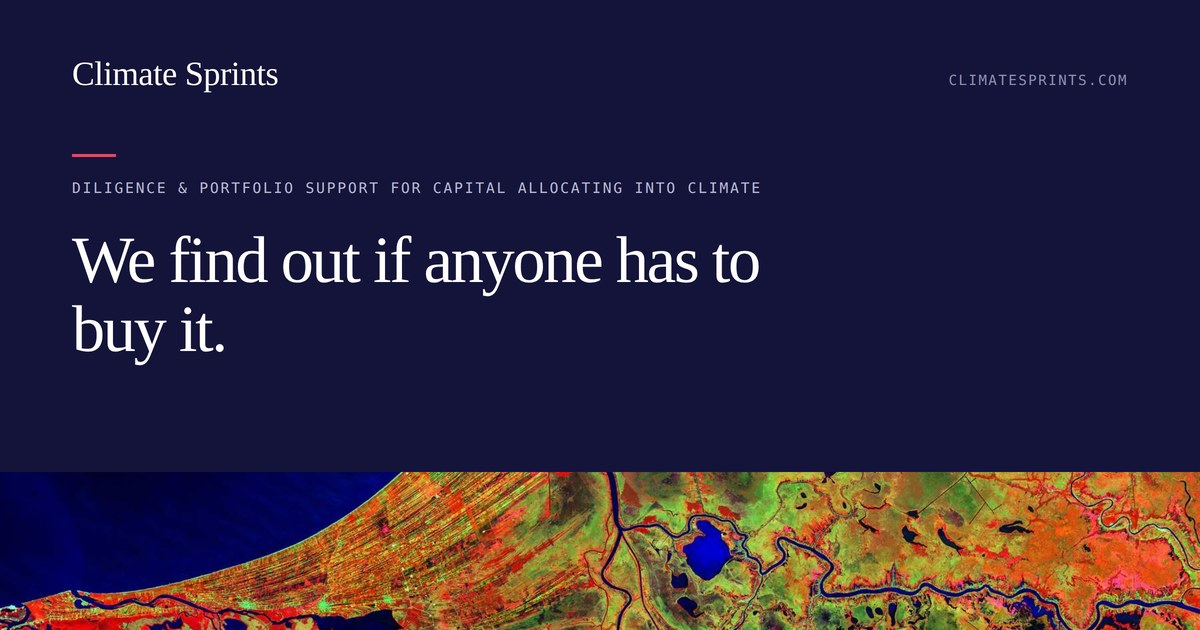
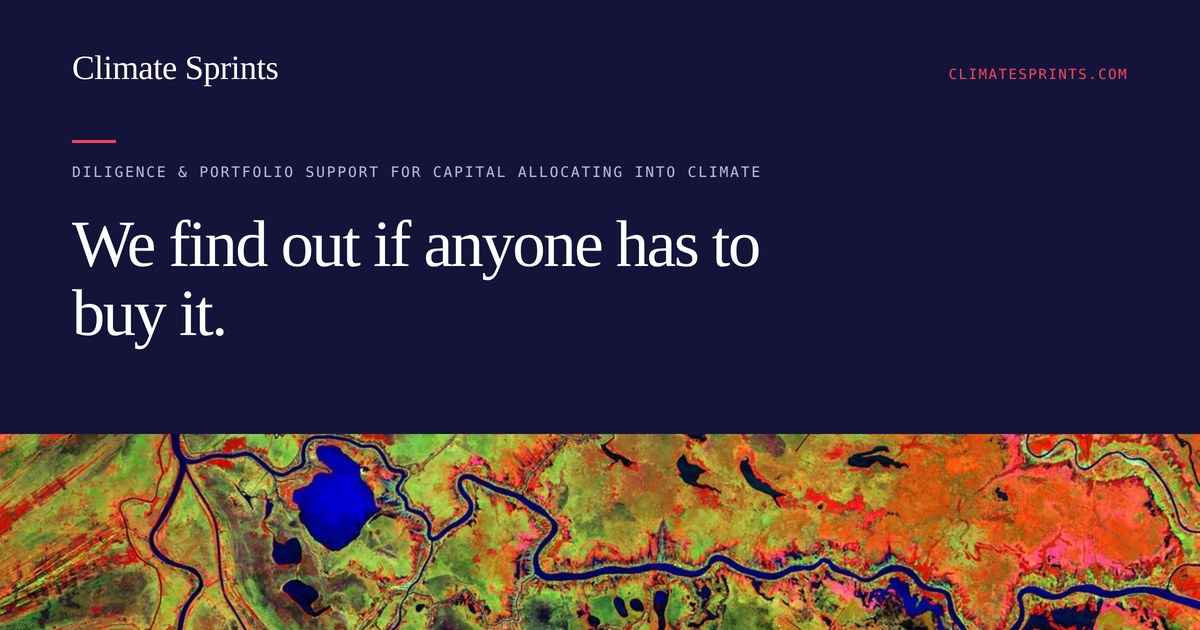
Whole Site v3.1  OG card - Footer - Eyebrow

diff --git a/assets/site.css b/assets/site.css
@@ -110,7 +110,7 @@ a:focus-visible,button:focus-visible,input:focus-visible,textarea:focus-visible{
 .eyebrow{
   font-family:"JetBrains Mono",monospace;font-size:12.5px;font-weight:500;
   letter-spacing:.08em;text-transform:uppercase;color:var(--label);
-  margin:0 0 2.4em;display:inline-block;border-bottom:2px solid var(--ir);padding-bottom:9px;
+  margin:0 0 45px;display:inline-block;border-bottom:2px solid var(--ir);padding-bottom:9px;
 }
 .hero h1{
   font-family:Newsreader,Georgia,serif;font-weight:200;
@@ -310,15 +310,18 @@ legend{padding:0;font-size:13.5px;color:var(--label);margin-bottom:14px;}
 
 /* SDG mark in the footer */
 .foot-top{display:grid;grid-template-columns:auto minmax(0,1fr) auto;
-  gap:clamp(20px,3vw,40px);align-items:center;}
-.foot-nav{justify-content:flex-end;}
-@media (max-width:980px){.foot-top{grid-template-columns:1fr;gap:26px;}
-  .foot-nav{justify-content:flex-start;}}
-.sdg{display:flex;align-items:center;gap:13px;justify-self:end;}
+  gap:clamp(20px,3vw,44px);align-items:start;}
+.foot-nav{display:flex;flex-direction:column;gap:12px;align-items:flex-end;}
+.foot-row{display:flex;gap:26px;flex-wrap:wrap;justify-content:flex-end;}
+.tagline{margin-top:-6px;}
+@media (max-width:980px){.foot-top{grid-template-columns:1fr;gap:28px;}
+  .foot-nav{align-items:flex-start;}.foot-row{justify-content:flex-start;}
+  .sdg{align-items:flex-start;text-align:left;justify-self:start;}}
+.sdg{display:flex;flex-direction:column;align-items:flex-end;gap:9px;justify-self:end;text-align:right;}
+.sdg span{font-family:"JetBrains Mono",monospace;font-size:9.5px;letter-spacing:.08em;
+  text-transform:uppercase;line-height:1.6;color:#7C7C9C;}
 .sdg img{width:54px;height:54px;flex:0 0 54px;opacity:.92;transition:opacity .15s ease;}
 .sdg img:hover{opacity:1;}
-.sdg span{font-family:"JetBrains Mono",monospace;font-size:10px;letter-spacing:.07em;
-  text-transform:uppercase;line-height:1.7;color:#7C7C9C;}
 @media (max-width:760px){.sdg{width:100%;}}
 
 /* ---------- consent ---------- */

diff --git a/og.html b/og.html
@@ -7,15 +7,15 @@
 *{box-sizing:border-box;margin:0;padding:0;}
 html,body{width:1200px;height:630px;overflow:hidden;}
 body{background:#14143A;color:#EDECEF;font-family:"JetBrains Mono",monospace;position:relative;}
-.pad{padding:56px 72px 0;}
+.pad{padding:50px 72px 0;}
 .top{display:flex;justify-content:space-between;align-items:baseline;}
 .mark{font-family:Newsreader,serif;font-weight:400;font-size:34px;letter-spacing:-.012em;color:#fff;}
-.url{font-size:14px;letter-spacing:.11em;text-transform:uppercase;color:#8E8EB0;}
-.tick{display:block;width:44px;height:3px;background:#F0435F;margin:60px 0 24px;}
+.url{font-size:14px;letter-spacing:.11em;text-transform:uppercase;color:#F0435F;}
+.tick{display:block;width:44px;height:3px;background:#F0435F;margin:52px 0 22px;}
 .eyebrow{font-size:14.5px;font-weight:500;letter-spacing:.13em;text-transform:uppercase;color:#B9B9D4;margin-bottom:30px;}
 h1{font-family:Newsreader,serif;font-weight:200;font-size:66px;line-height:1.04;
    letter-spacing:-.032em;color:#fff;max-width:24ch;}
-.band{position:absolute;left:0;right:0;bottom:0;height:158px;overflow:hidden;}
+.band{position:absolute;left:0;right:0;bottom:0;height:196px;overflow:hidden;}
 .band img{width:100%;height:100%;object-fit:cover;display:block;}
 .credit{position:absolute;right:72px;bottom:18px;font-size:12px;letter-spacing:.11em;
   text-transform:uppercase;color:rgba(255,255,255,.72);text-shadow:0 1px 6px rgba(0,0,0,.6);}
@@ -31,6 +31,6 @@ h1{font-family:Newsreader,serif;font-weight:200;font-size:66px;line-height:1.04;
     <p class="eyebrow">Diligence &amp; portfolio support for capital allocating into climate</p>
     <h1>We find out if anyone has to buy it.</h1>
   </div>
-  <div class="band"><img src="assets/plates/home.jpg" alt=""></div>
+  <div class="band"><img src="assets/og-band.jpg" alt=""></div>
 </body>
 </html>

diff --git a/index.html b/index.html
@@ -257,20 +257,25 @@
     <div class="foot-top">
       <p class="tagline">Powered by Purpose. Driven by Action.</p>
       <nav class="foot-nav" aria-label="Secondary">
-        <a href="conversations.html">Conversations</a>
-        <a href="contact.html">Contact</a>
-        <a href="colophon.html">Colophon</a>
-        <a href="terms.html">Terms</a>
-        <a href="privacy.html">Privacy</a>
-        <a href="disclaimer.html">Disclaimer</a>
-        <a href="#" data-consent-reopen>Cookie settings</a>
+        <div class="foot-row">
+          <a href="contact.html">Contact</a>
+          <a href="conversations.html">Conversations</a>
+          <a href="colophon.html">Colophon</a>
+        </div>
+        <div class="foot-row">
+          <a href="terms.html">Terms</a>
+          <a href="privacy.html">Privacy</a>
+          <a href="disclaimer.html">Disclaimer</a>
+          <a href="#" data-consent-reopen>Cookies</a>
+        </div>
       </nav>
       <div class="sdg">
-        <img src="assets/sdg-wheel.png" alt="Aligned to the UN Sustainable Development Goals" title="Aligned to the UN Sustainable Development Goals" width="54" height="54">
+        <img src="assets/sdg-wheel.png" alt="Aligned to the UN Sustainable Development Goals" width="54" height="54">
+        <span>Aligned to the UN<br>Sustainable Development Goals</span>
       </div>
     </div>
     <div class="foot-line">
-      <span>© 2026 Climate Sprints — <span style="text-transform:none;letter-spacing:0">[legal entity TBC]</span></span>
+      <span>&copy; 2026 Climate Sprints &mdash; <span style="text-transform:none;letter-spacing:0">[legal entity TBC]</span></span>
       <span>Imagery courtesy of the U.S. Geological Survey</span>
     </div>
   </div>

diff --git a/alignment.html b/alignment.html
@@ -188,16 +188,21 @@
     <div class="foot-top">
       <p class="tagline">Powered by Purpose. Driven by Action.</p>
       <nav class="foot-nav" aria-label="Secondary">
-        <a href="conversations.html">Conversations</a>
-        <a href="contact.html">Contact</a>
-        <a href="colophon.html">Colophon</a>
-        <a href="terms.html">Terms</a>
-        <a href="privacy.html">Privacy</a>
-        <a href="disclaimer.html">Disclaimer</a>
-        <a href="#" data-consent-reopen>Cookie settings</a>
+        <div class="foot-row">
+          <a href="contact.html">Contact</a>
+          <a href="conversations.html">Conversations</a>
+          <a href="colophon.html">Colophon</a>
+        </div>
+        <div class="foot-row">
+          <a href="terms.html">Terms</a>
+          <a href="privacy.html">Privacy</a>
+          <a href="disclaimer.html">Disclaimer</a>
+          <a href="#" data-consent-reopen>Cookies</a>
+        </div>
       </nav>
       <div class="sdg">
-        <img src="assets/sdg-wheel.png" alt="Aligned to the UN Sustainable Development Goals" title="Aligned to the UN Sustainable Development Goals" width="54" height="54">
+        <img src="assets/sdg-wheel.png" alt="Aligned to the UN Sustainable Development Goals" width="54" height="54">
+        <span>Aligned to the UN<br>Sustainable Development Goals</span>
       </div>
     </div>
     <div class="foot-line">

diff --git a/approach.html b/approach.html
@@ -231,16 +231,21 @@
     <div class="foot-top">
       <p class="tagline">Powered by Purpose. Driven by Action.</p>
       <nav class="foot-nav" aria-label="Secondary">
-        <a href="conversations.html">Conversations</a>
-        <a href="contact.html">Contact</a>
-        <a href="colophon.html">Colophon</a>
-        <a href="terms.html">Terms</a>
-        <a href="privacy.html">Privacy</a>
-        <a href="disclaimer.html">Disclaimer</a>
-        <a href="#" data-consent-reopen>Cookie settings</a>
+        <div class="foot-row">
+          <a href="contact.html">Contact</a>
+          <a href="conversations.html">Conversations</a>
+          <a href="colophon.html">Colophon</a>
+        </div>
+        <div class="foot-row">
+          <a href="terms.html">Terms</a>
+          <a href="privacy.html">Privacy</a>
+          <a href="disclaimer.html">Disclaimer</a>
+          <a href="#" data-consent-reopen>Cookies</a>
+        </div>
       </nav>
       <div class="sdg">
-        <img src="assets/sdg-wheel.png" alt="Aligned to the UN Sustainable Development Goals" title="Aligned to the UN Sustainable Development Goals" width="54" height="54">
+        <img src="assets/sdg-wheel.png" alt="Aligned to the UN Sustainable Development Goals" width="54" height="54">
+        <span>Aligned to the UN<br>Sustainable Development Goals</span>
       </div>
     </div>
     <div class="foot-line">

diff --git a/colophon.html b/colophon.html
@@ -147,16 +147,21 @@
     <div class="foot-top">
       <p class="tagline">Powered by Purpose. Driven by Action.</p>
       <nav class="foot-nav" aria-label="Secondary">
-        <a href="conversations.html">Conversations</a>
-        <a href="contact.html">Contact</a>
-        <a href="colophon.html">Colophon</a>
-        <a href="terms.html">Terms</a>
-        <a href="privacy.html">Privacy</a>
-        <a href="disclaimer.html">Disclaimer</a>
-        <a href="#" data-consent-reopen>Cookie settings</a>
+        <div class="foot-row">
+          <a href="contact.html">Contact</a>
+          <a href="conversations.html">Conversations</a>
+          <a href="colophon.html">Colophon</a>
+        </div>
+        <div class="foot-row">
+          <a href="terms.html">Terms</a>
+          <a href="privacy.html">Privacy</a>
+          <a href="disclaimer.html">Disclaimer</a>
+          <a href="#" data-consent-reopen>Cookies</a>
+        </div>
       </nav>
       <div class="sdg">
-        <img src="assets/sdg-wheel.png" alt="Aligned to the UN Sustainable Development Goals" title="Aligned to the UN Sustainable Development Goals" width="54" height="54">
+        <img src="assets/sdg-wheel.png" alt="Aligned to the UN Sustainable Development Goals" width="54" height="54">
+        <span>Aligned to the UN<br>Sustainable Development Goals</span>
       </div>
     </div>
     <div class="foot-line">

diff --git a/contact.html b/contact.html
@@ -121,16 +121,21 @@
     <div class="foot-top">
       <p class="tagline">Powered by Purpose. Driven by Action.</p>
       <nav class="foot-nav" aria-label="Secondary">
-        <a href="conversations.html">Conversations</a>
-        <a href="contact.html">Contact</a>
-        <a href="colophon.html">Colophon</a>
-        <a href="terms.html">Terms</a>
-        <a href="privacy.html">Privacy</a>
-        <a href="disclaimer.html">Disclaimer</a>
-        <a href="#" data-consent-reopen>Cookie settings</a>
+        <div class="foot-row">
+          <a href="contact.html">Contact</a>
+          <a href="conversations.html">Conversations</a>
+          <a href="colophon.html">Colophon</a>
+        </div>
+        <div class="foot-row">
+          <a href="terms.html">Terms</a>
+          <a href="privacy.html">Privacy</a>
+          <a href="disclaimer.html">Disclaimer</a>
+          <a href="#" data-consent-reopen>Cookies</a>
+        </div>
       </nav>
       <div class="sdg">
-        <img src="assets/sdg-wheel.png" alt="Aligned to the UN Sustainable Development Goals" title="Aligned to the UN Sustainable Development Goals" width="54" height="54">
+        <img src="assets/sdg-wheel.png" alt="Aligned to the UN Sustainable Development Goals" width="54" height="54">
+        <span>Aligned to the UN<br>Sustainable Development Goals</span>
       </div>
     </div>
     <div class="foot-line">

diff --git a/conversations.html b/conversations.html
@@ -143,16 +143,21 @@
     <div class="foot-top">
       <p class="tagline">Powered by Purpose. Driven by Action.</p>
       <nav class="foot-nav" aria-label="Secondary">
-        <a href="conversations.html">Conversations</a>
-        <a href="contact.html">Contact</a>
-        <a href="colophon.html">Colophon</a>
-        <a href="terms.html">Terms</a>
-        <a href="privacy.html">Privacy</a>
-        <a href="disclaimer.html">Disclaimer</a>
-        <a href="#" data-consent-reopen>Cookie settings</a>
+        <div class="foot-row">
+          <a href="contact.html">Contact</a>
+          <a href="conversations.html">Conversations</a>
+          <a href="colophon.html">Colophon</a>
+        </div>
+        <div class="foot-row">
+          <a href="terms.html">Terms</a>
+          <a href="privacy.html">Privacy</a>
+          <a href="disclaimer.html">Disclaimer</a>
+          <a href="#" data-consent-reopen>Cookies</a>
+        </div>
       </nav>
       <div class="sdg">
-        <img src="assets/sdg-wheel.png" alt="Aligned to the UN Sustainable Development Goals" title="Aligned to the UN Sustainable Development Goals" width="54" height="54">
+        <img src="assets/sdg-wheel.png" alt="Aligned to the UN Sustainable Development Goals" width="54" height="54">
+        <span>Aligned to the UN<br>Sustainable Development Goals</span>
       </div>
     </div>
     <div class="foot-line">

diff --git a/diligence.html b/diligence.html
@@ -220,16 +220,21 @@
     <div class="foot-top">
       <p class="tagline">Powered by Purpose. Driven by Action.</p>
       <nav class="foot-nav" aria-label="Secondary">
-        <a href="conversations.html">Conversations</a>
-        <a href="contact.html">Contact</a>
-        <a href="colophon.html">Colophon</a>
-        <a href="terms.html">Terms</a>
-        <a href="privacy.html">Privacy</a>
-        <a href="disclaimer.html">Disclaimer</a>
-        <a href="#" data-consent-reopen>Cookie settings</a>
+        <div class="foot-row">
+          <a href="contact.html">Contact</a>
+          <a href="conversations.html">Conversations</a>
+          <a href="colophon.html">Colophon</a>
+        </div>
+        <div class="foot-row">
+          <a href="terms.html">Terms</a>
+          <a href="privacy.html">Privacy</a>
+          <a href="disclaimer.html">Disclaimer</a>
+          <a href="#" data-consent-reopen>Cookies</a>
+        </div>
       </nav>
       <div class="sdg">
-        <img src="assets/sdg-wheel.png" alt="Aligned to the UN Sustainable Development Goals" title="Aligned to the UN Sustainable Development Goals" width="54" height="54">
+        <img src="assets/sdg-wheel.png" alt="Aligned to the UN Sustainable Development Goals" width="54" height="54">
+        <span>Aligned to the UN<br>Sustainable Development Goals</span>
       </div>
     </div>
     <div class="foot-line">

diff --git a/fractional.html b/fractional.html
@@ -167,16 +167,21 @@
     <div class="foot-top">
       <p class="tagline">Powered by Purpose. Driven by Action.</p>
       <nav class="foot-nav" aria-label="Secondary">
-        <a href="conversations.html">Conversations</a>
-        <a href="contact.html">Contact</a>
-        <a href="colophon.html">Colophon</a>
-        <a href="terms.html">Terms</a>
-        <a href="privacy.html">Privacy</a>
-        <a href="disclaimer.html">Disclaimer</a>
-        <a href="#" data-consent-reopen>Cookie settings</a>
+        <div class="foot-row">
+          <a href="contact.html">Contact</a>
+          <a href="conversations.html">Conversations</a>
+          <a href="colophon.html">Colophon</a>
+        </div>
+        <div class="foot-row">
+          <a href="terms.html">Terms</a>
+          <a href="privacy.html">Privacy</a>
+          <a href="disclaimer.html">Disclaimer</a>
+          <a href="#" data-consent-reopen>Cookies</a>
+        </div>
       </nav>
       <div class="sdg">
-        <img src="assets/sdg-wheel.png" alt="Aligned to the UN Sustainable Development Goals" title="Aligned to the UN Sustainable Development Goals" width="54" height="54">
+        <img src="assets/sdg-wheel.png" alt="Aligned to the UN Sustainable Development Goals" width="54" height="54">
+        <span>Aligned to the UN<br>Sustainable Development Goals</span>
       </div>
     </div>
     <div class="foot-line">

diff --git a/mastermind.html b/mastermind.html
@@ -219,16 +219,21 @@
     <div class="foot-top">
       <p class="tagline">Powered by Purpose. Driven by Action.</p>
       <nav class="foot-nav" aria-label="Secondary">
-        <a href="conversations.html">Conversations</a>
-        <a href="contact.html">Contact</a>
-        <a href="colophon.html">Colophon</a>
-        <a href="terms.html">Terms</a>
-        <a href="privacy.html">Privacy</a>
-        <a href="disclaimer.html">Disclaimer</a>
-        <a href="#" data-consent-reopen>Cookie settings</a>
+        <div class="foot-row">
+          <a href="contact.html">Contact</a>
+          <a href="conversations.html">Conversations</a>
+          <a href="colophon.html">Colophon</a>
+        </div>
+        <div class="foot-row">
+          <a href="terms.html">Terms</a>
+          <a href="privacy.html">Privacy</a>
+          <a href="disclaimer.html">Disclaimer</a>
+          <a href="#" data-consent-reopen>Cookies</a>
+        </div>
       </nav>
       <div class="sdg">
-        <img src="assets/sdg-wheel.png" alt="Aligned to the UN Sustainable Development Goals" title="Aligned to the UN Sustainable Development Goals" width="54" height="54">
+        <img src="assets/sdg-wheel.png" alt="Aligned to the UN Sustainable Development Goals" width="54" height="54">
+        <span>Aligned to the UN<br>Sustainable Development Goals</span>
       </div>
     </div>
     <div class="foot-line">

diff --git a/momentum.html b/momentum.html
@@ -174,16 +174,21 @@
     <div class="foot-top">
       <p class="tagline">Powered by Purpose. Driven by Action.</p>
       <nav class="foot-nav" aria-label="Secondary">
-        <a href="conversations.html">Conversations</a>
-        <a href="contact.html">Contact</a>
-        <a href="colophon.html">Colophon</a>
-        <a href="terms.html">Terms</a>
-        <a href="privacy.html">Privacy</a>
-        <a href="disclaimer.html">Disclaimer</a>
-        <a href="#" data-consent-reopen>Cookie settings</a>
+        <div class="foot-row">
+          <a href="contact.html">Contact</a>
+          <a href="conversations.html">Conversations</a>
+          <a href="colophon.html">Colophon</a>
+        </div>
+        <div class="foot-row">
+          <a href="terms.html">Terms</a>
+          <a href="privacy.html">Privacy</a>
+          <a href="disclaimer.html">Disclaimer</a>
+          <a href="#" data-consent-reopen>Cookies</a>
+        </div>
       </nav>
       <div class="sdg">
-        <img src="assets/sdg-wheel.png" alt="Aligned to the UN Sustainable Development Goals" title="Aligned to the UN Sustainable Development Goals" width="54" height="54">
+        <img src="assets/sdg-wheel.png" alt="Aligned to the UN Sustainable Development Goals" width="54" height="54">
+        <span>Aligned to the UN<br>Sustainable Development Goals</span>
       </div>
     </div>
     <div class="foot-line">
